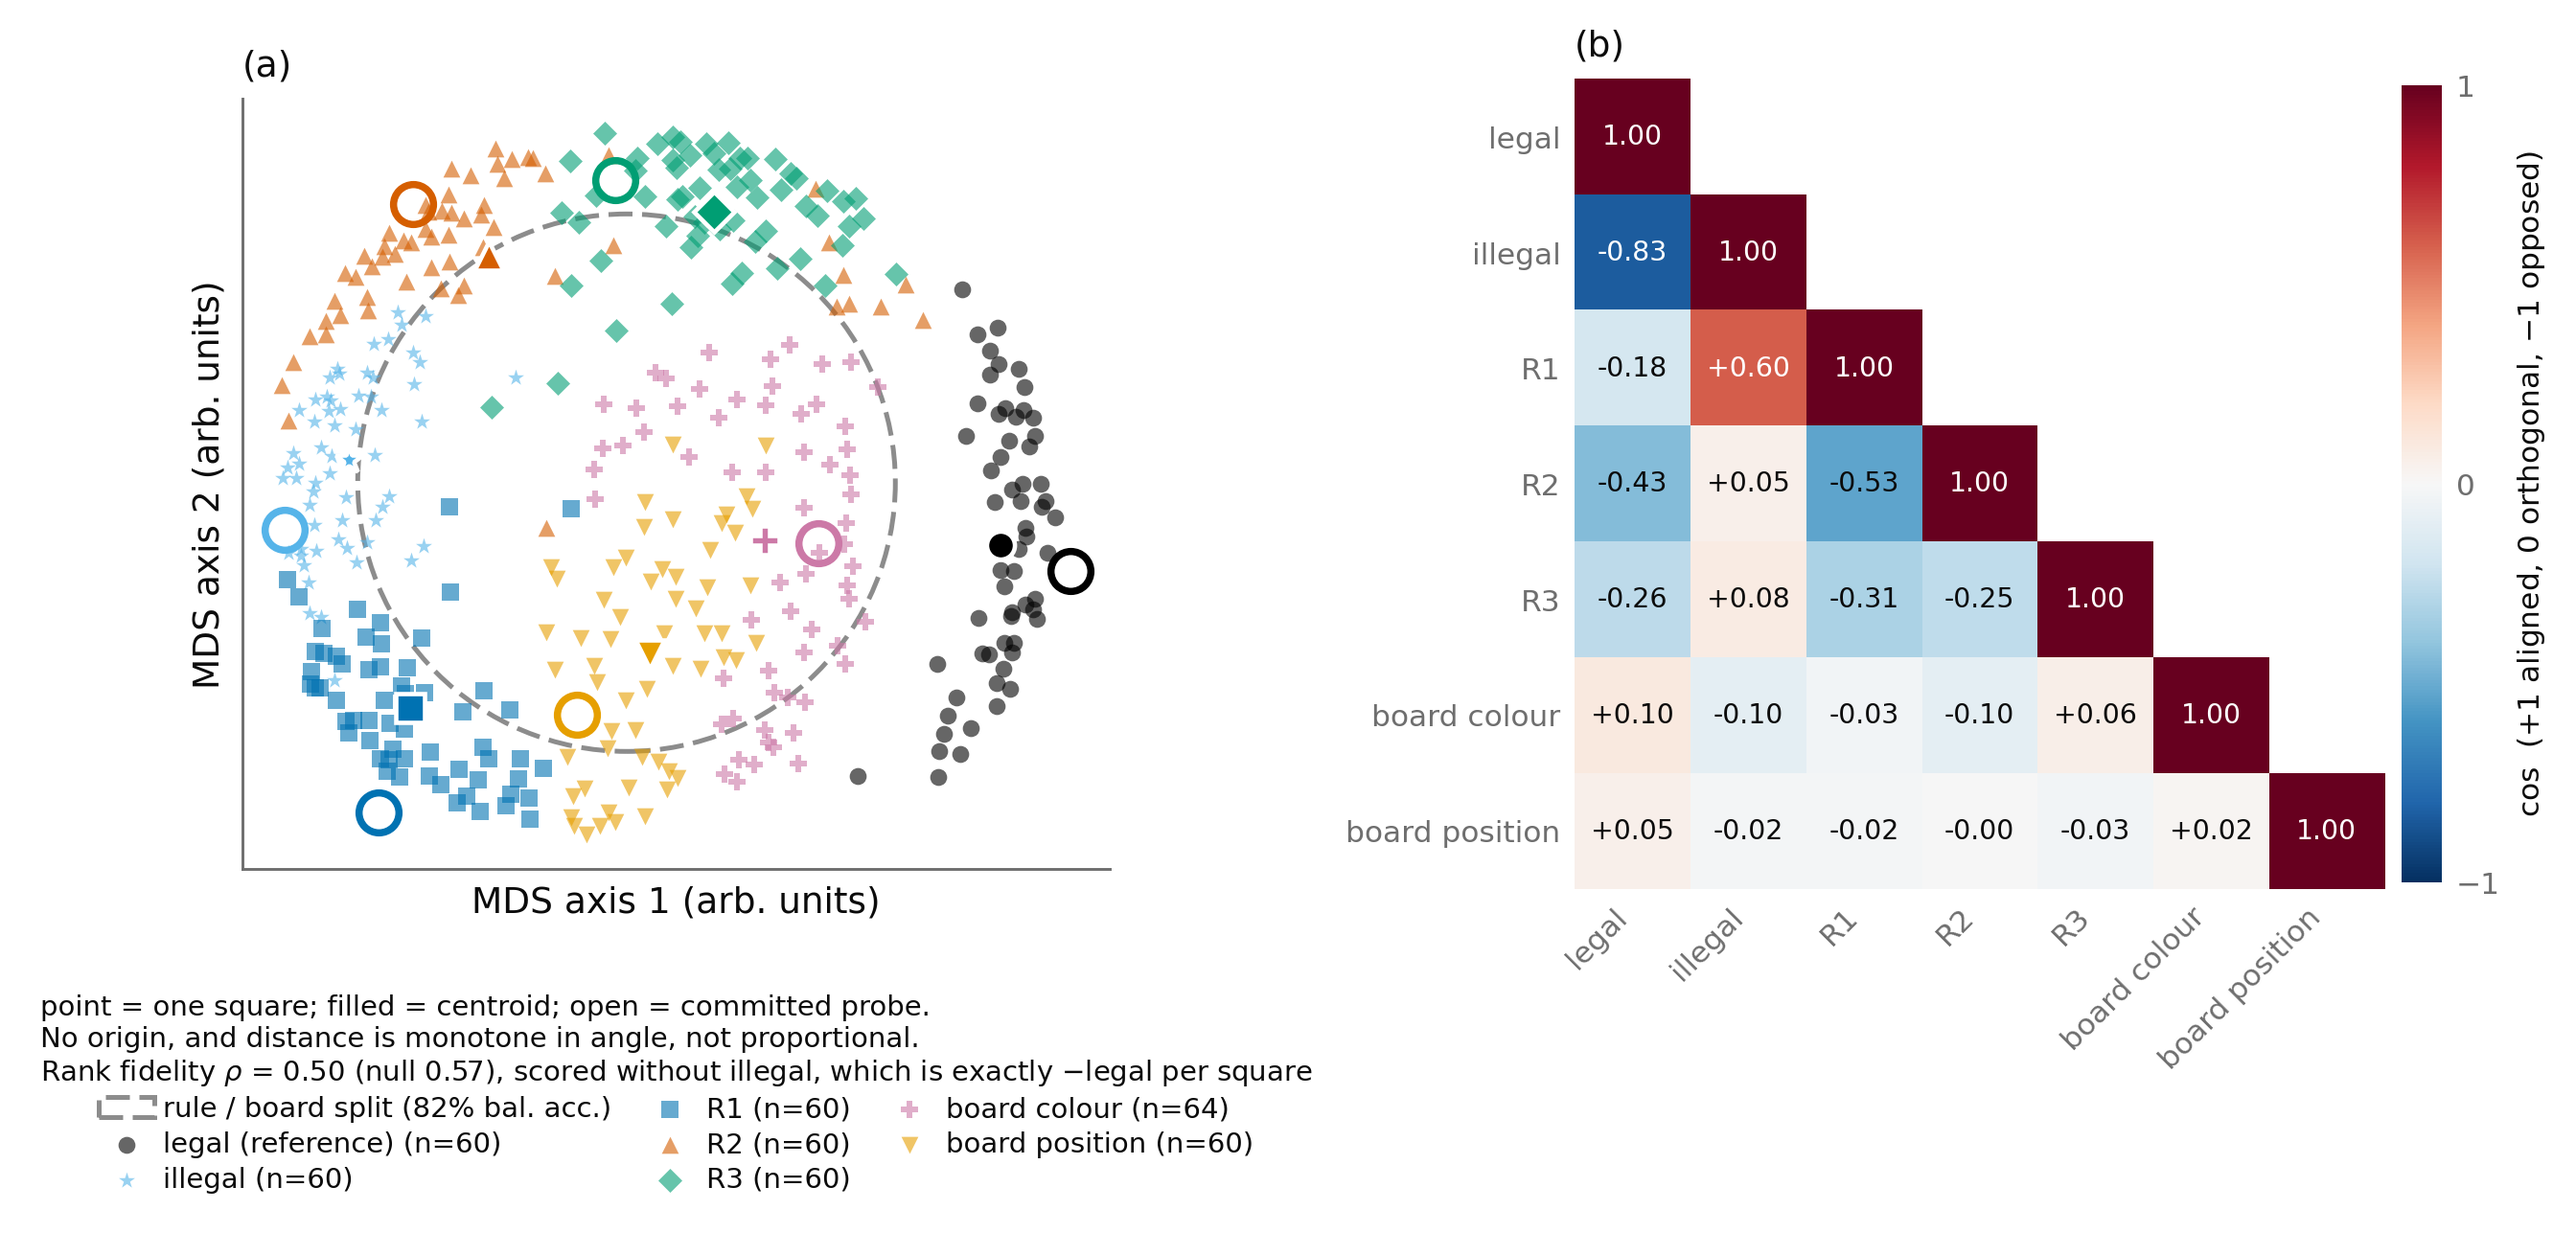
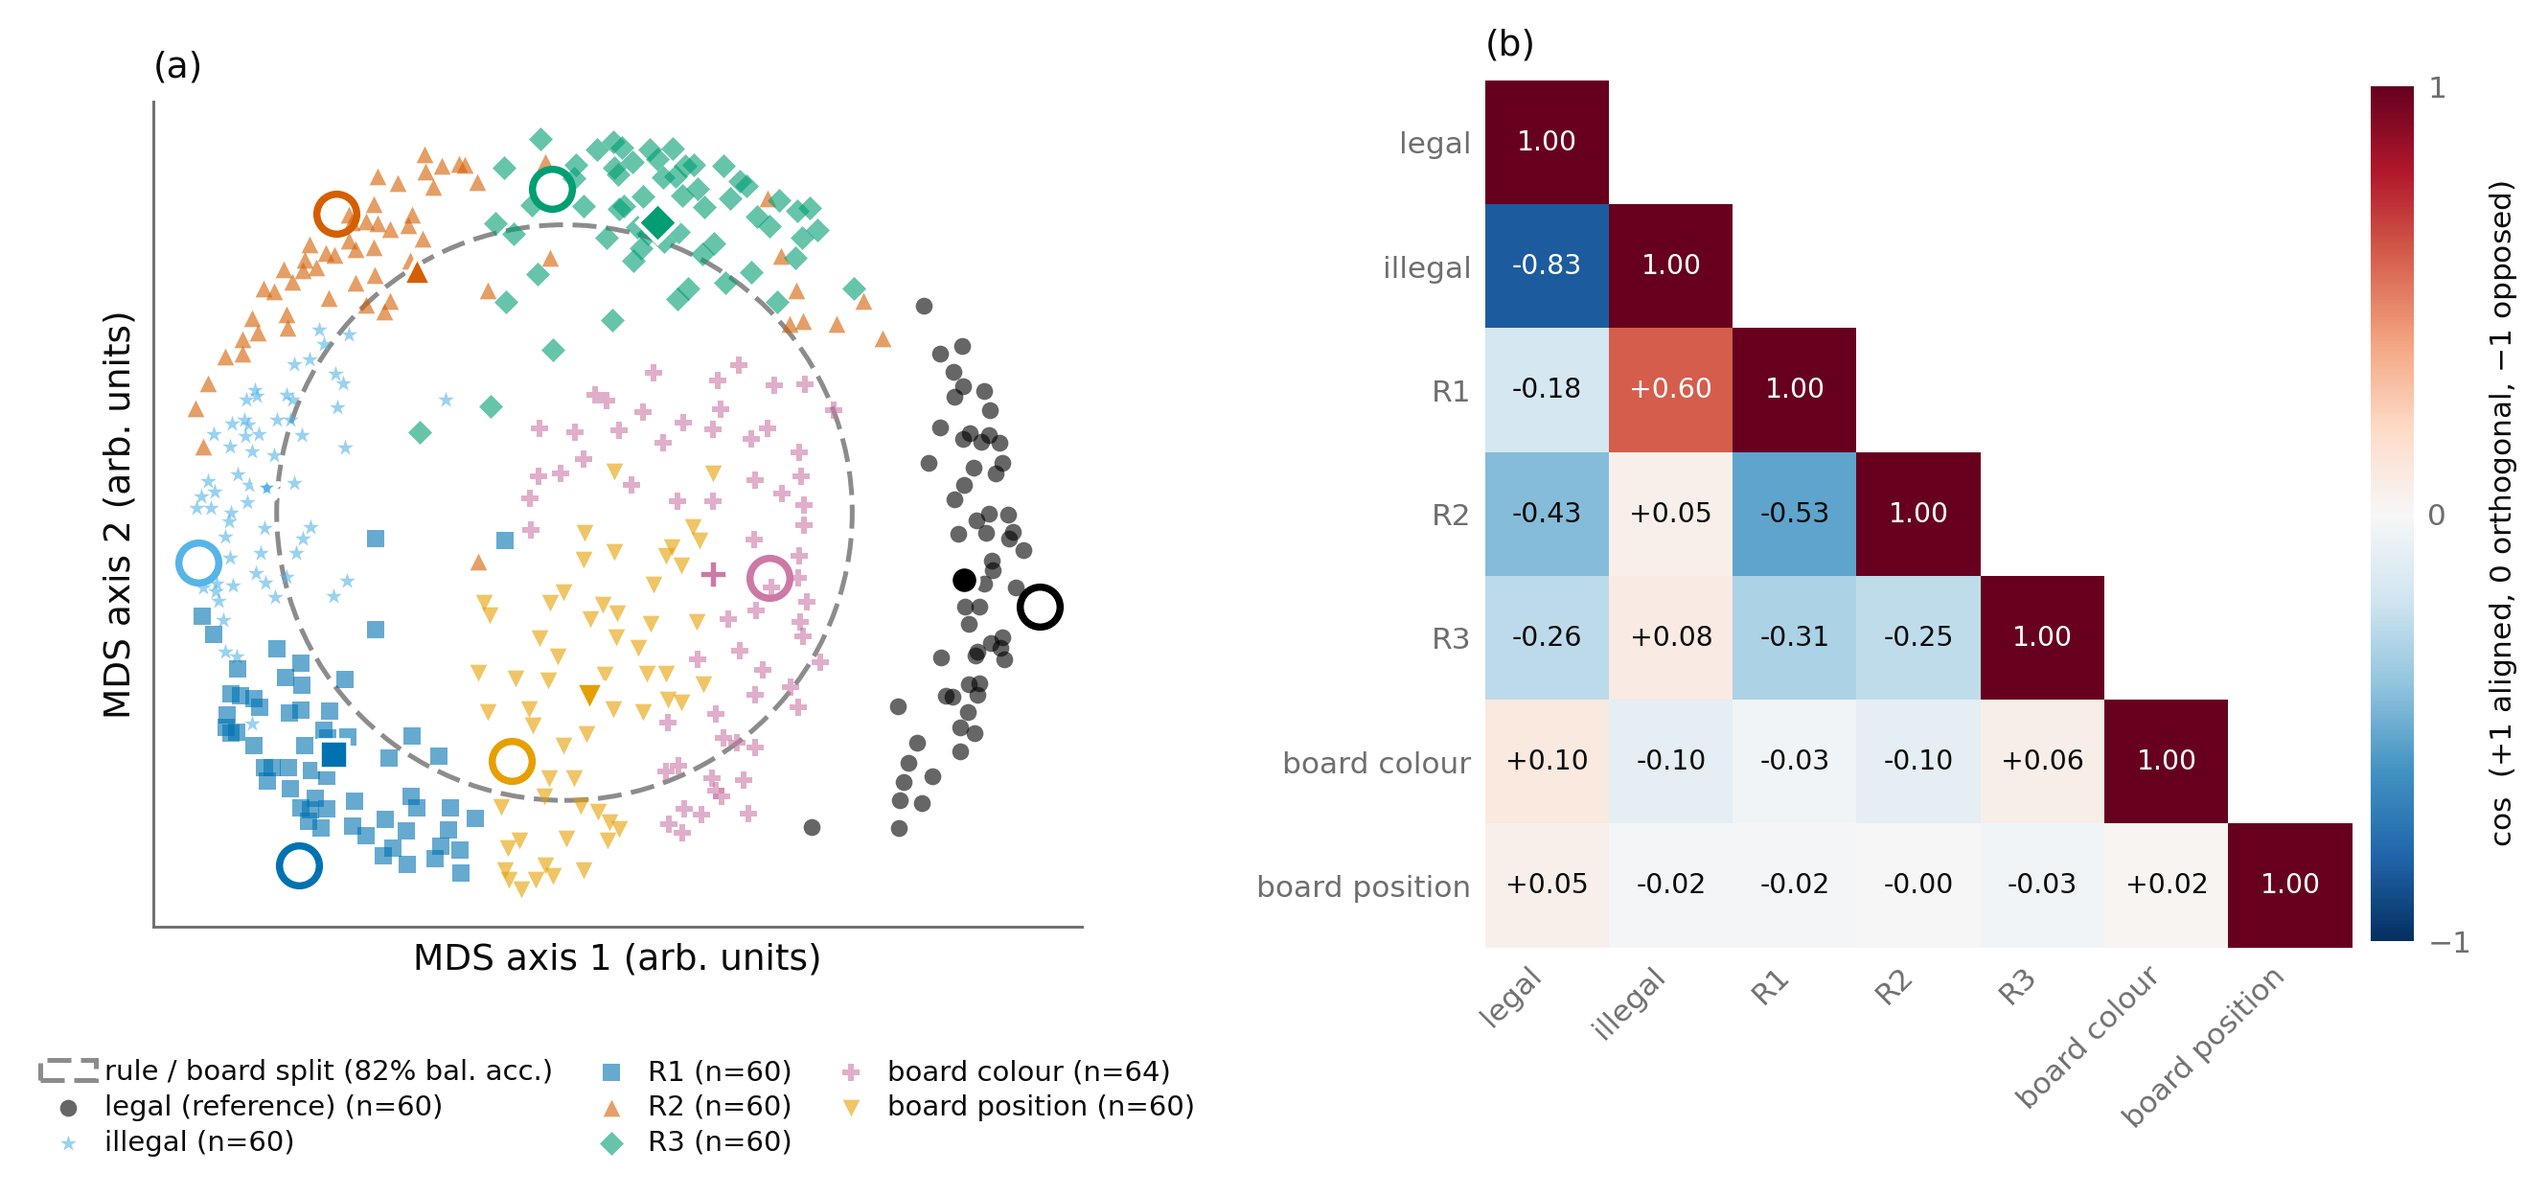
Fig 1(a): drop the legend prose, keep it in the README
The three-line block under the panel was the last of the grey figure prose. What
the markers mean, that there is no origin, that distance is monotone in angle
rather than proportional to it, and the fidelity against its null now live in the
study README's Figure notes, where the rest of this repo's figure text already
sits.

diff --git a/analysis/probe_geometry/make_figures.py b/analysis/probe_geometry/make_figures.py
@@ -60,14 +60,10 @@ def embed_panel(ax, points: pd.DataFrame, probes: pd.DataFrame,
     ax.set_yticks([])
     ax.set_xlabel("MDS axis 1 (arb. units)")
     ax.set_ylabel("MDS axis 2 (arb. units)")
+    # No legend title: what the markers mean, the missing origin, the monotone-not-
+    # proportional distance and the fidelity all live in the README's Figure notes.
     ax.legend(loc="upper center", bbox_to_anchor=(0.5, -0.13), ncol=3, fontsize=7,
-              labelspacing=0.3, columnspacing=1.1, handletextpad=0.3,
-              title=("point = one square; filled = centroid; open = committed probe.\n"
-                     "No origin, and distance is monotone in angle, not proportional.\n"
-                     f"Rank fidelity $\\rho$ = {row.rank_fidelity:.2f} "
-                     f"(null {row.null_mean:.2f}), scored without illegal, "
-                     "which is exactly $-$legal per square"),
-              title_fontsize=7)
+              labelspacing=0.3, columnspacing=1.1, handletextpad=0.3)
 
 
 def cosine_panel(fig, ax, gram: pd.DataFrame) -> None:

diff --git a/analysis/probe_geometry/README.md b/analysis/probe_geometry/README.md
@@ -123,9 +123,18 @@ angle is read off panel (b).
 
 What the panels do not print, so a reader does not have to infer it:
 
-- `fig1_direction_geometry.png` / `.pdf` panel (a) — the dashed ring is the rule/board
-  boundary, not a contour of the data; it is placed at the balanced-accuracy-optimal
-  radius and 18% of points fall on its wrong side. The rule codes are R1 placement,
+- `fig1_direction_geometry.png` / `.pdf` panel (a) — **how to read it.** A point is one
+  board square; the filled marker of a colour is that family's centroid, the open ring is
+  the committed probe (a different object — for R1 they are more than a within-family
+  radius apart). There is **no origin**: SMACOF fixes a configuration only up to rigid
+  motion, so the centre is the cloud's own centroid and both axes are arbitrary units.
+  **Distance is monotone in angle, not proportional to it** — nonmetric MDS fits only the
+  rank order — so read which points are nearer than which, never how much. Rank fidelity
+  is ρ = 0.50 against 0.57 for a family-means-only null, scored on the 364 points that
+  exclude `illegal`, which is exactly −`legal` per square. The dashed ring is the
+  rule/board boundary, not a contour of the data; it is placed at the
+  balanced-accuracy-optimal radius and 18% of points fall on its wrong side. The rule
+  codes are R1 placement,
   R2 bracketing, R3 turn (`docs/othello_rules.md`). The null beside the fidelity is
   0.574 ± 0.007, SD over 5 draws, and it is *above* the embedding's own 0.504: the
   layout is evidence about families and never about individual squares. The committed
